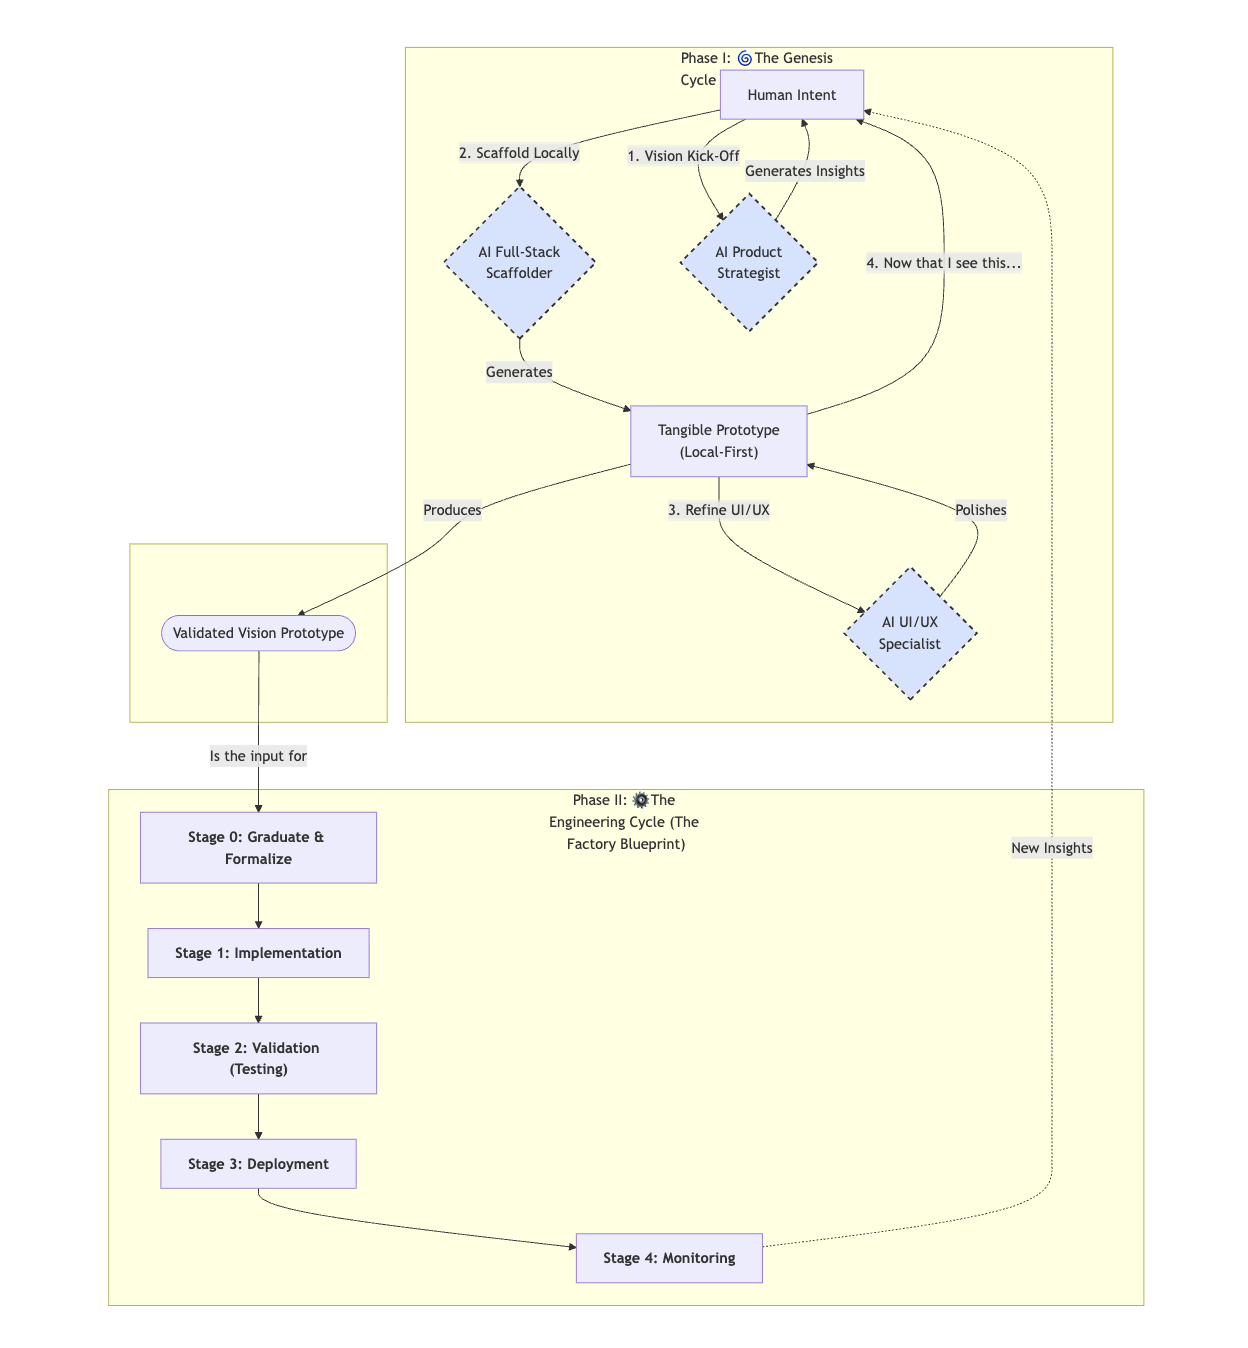
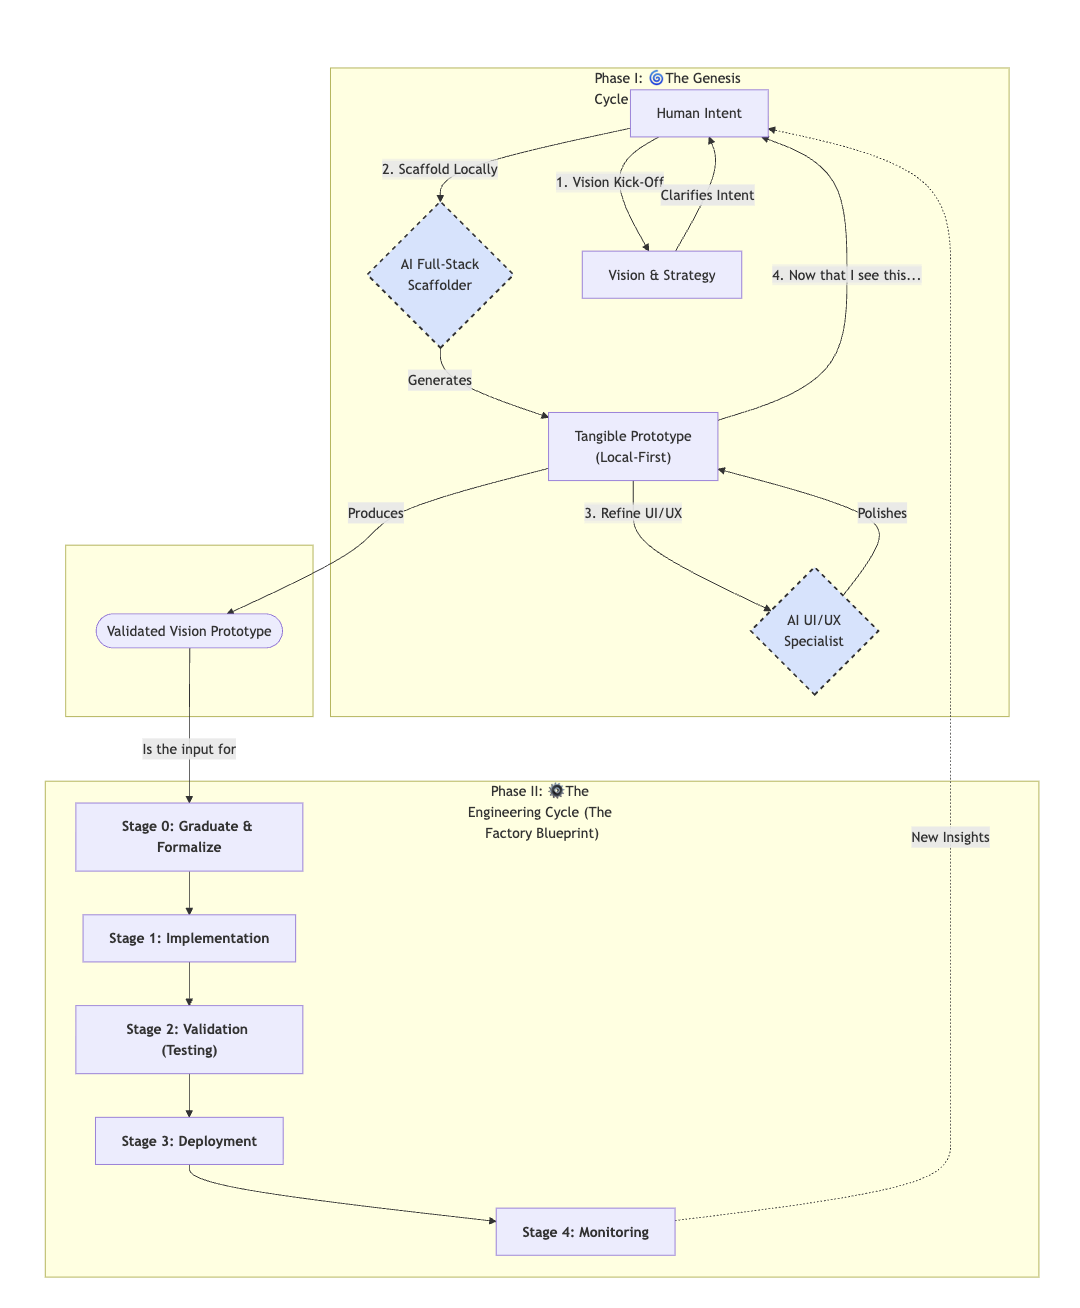
removed image from readme

Changed region(s): [[0.0306, 0.0306, 0.9778, 0.9786], [0.4889, 0.2752, 0.6722, 0.4281], [0.7639, 0.367, 0.8556, 0.3976]]

diff --git a/MediumArticle.md b/MediumArticle.md
@@ -1,0 +1,86 @@
+# Beyond the Double Diamond: A New Framework for the AI Age - The Quantum Diamond
+
+**MEDIUM Article URL:** https://medium.com/@rfremmer_30873/beyond-the-double-diamond-design-process-a-new-framework-for-the-ai-age-the-quantum-diamond-980fe3f89319
+
+## Medium Article full text (minus URLs)
+---
+
+For over a decade, the Double Diamond Design Process has been the North Star for designers and product builders. Its elegant model of diverging and converging - first to understand the problem, then to create the solution - brought much-needed structure to the creative process. It was a masterpiece of its time, an incredible tool for a world of manual wireframing, detailed user stories, and distinct design and development phases. We are all standing on its shoulders.
+
+But its time is passing.
+
+The ground has shifted beneath our feet. The AI era is not an incremental change; it is a paradigm shift. Two powerful, opposing forces are pulling development teams apart, and the Double Diamond, in its classic form, wasn't built to withstand them.
+
+On one side, we have the intoxicating, chaotic speed of "vibe coding," which promises instant creation but often delivers brittle magic. On the other, we see the rigid, bureaucratic reaction of legacy platforms trying to bolt on AI, which promises structure but often kills creativity.
+
+We are caught in a false dichotomy: move fast and break things permanently, or move slow and build the wrong thing perfectly.
+
+Neither is acceptable. To thrive in this new era, we need a synthesis. We need a new model that harnesses the incredible velocity of AI while grounding it in the hard-won wisdom of engineering discipline. We need the **Quantum Diamond Framework.**
+
+### The Strengths and Weaknesses of the New World
+
+To build a better future, we must first be honest about the present.
+
+#### The Power and Peril of "Vibe Coding"
+
+With tools like bolt.new, v0.dev, lovable.dev, and cursor.ai, a developer can now translate a vague idea into a working prototype in minutes. This is "vibe coding" - a high-speed, intuitive conversation between a human and an AI that feels like magic.
+
+*   **Its Strength is Speed:** It short-circuits entire phases of the traditional process. Why spend two weeks on wireframes when an AI Prototyper Agent can build a clickable UI in 30 seconds? It allows us to make ideas tangible instantly, which is an undeniable superpower for discovery.
+*   **Its Weakness is Chaos:** Vibe coding, left unchecked, produces brittle, unmaintainable systems. It's a series of brilliant shortcuts that lead to a technical dead end. It has no built-in rigor, no safety net, and no clear path to production. It optimizes for the demo, not for durability.
+
+#### The Comfort and Constraints of "Bureaucratic AI"
+
+In the face of this chaos, the knee-jerk reaction from established players is to impose old-world structure onto new-world tools. We see this in platforms like Microsoft's PowerApps Plan Designer, which forces you into a formal meeting with a committee of AI agents before you can create anything.
+
+*   **Its Strength is Structure:** This approach attempts to provide the discipline that vibe coding lacks. It forces you to think about data models and user personas upfront, which can prevent costly mistakes down the line.
+*   **Its Weakness is Friction:** It smothers creativity under a blanket of premature formalism. It takes the magic of AI and forces it into the role of a tedious project manager. It front-loads the "boring" work of a traditional Business Analyst, alienating the user and killing the creative spark before it has a chance to catch fire.
+
+### The Synthesis: The Quantum Diamond Framework
+
+The Quantum Diamond is the framework that resolves this conflict. It's not a third, separate path; it is a synthesis that deliberately integrates the strengths of both worlds.
+
+It does this through two distinct phases: a creative "jam session" that refines vibe coding, and a rigorous "factory build" that provides the necessary engineering discipline.
+
+### Phase I: The Genesis Cycle - The Conversational Jam Session
+
+The Genesis Cycle is the evolution of the Double Diamond's discovery phase, reimagined for the AI age. It takes the raw, creative energy of vibe coding and channels it productively through a structured, conversational partnership with an AI.
+
+The core principle is: **Clarify the vision first, then build and refine it together.**
+
+Instead of the AI immediately building a prototype from a vague idea, the Genesis Cycle begins with a conversation. You share your intent, and the AI, acting as your architect, responds not with code, but with a proposed vision and a set of clarifying questions. This is the **Vision Kick-Off Protocol**.
+
+Once the vision is clear, the "jam session" begins. As you direct the AI to build features, it operates on a **Continuous Clarification Protocol**. For any ambiguous request, it asks more questions, ensuring a tight feedback loop.
+
+And here is the critical difference: working silently in the background is the **Guardian Persona**. This passive agent is the framework's source of "emergent rigor." It doesn't force you into a planning meeting; it watches the prototype evolve and automatically generates the engineering artifacts in the background.
+
+*   You build a UI? The Guardian documents the new components.
+*   You define the logic? The Guardian updates the data contracts.
+*   You make a key choice? The Guardian writes an Architecture Decision Record (ADR).
+
+The essential work of system design still happens, but it happens transparently and organically, as an output of the creative process, not a prerequisite for it. This is how we harness the speed of AI without succumbing to its chaos.
+
+### Phase II: The Engineering Cycle - The Rigor We Need
+
+Once the Genesis Cycle produces a validated prototype, we "collapse the wave function." The creative exploration is over. This phase is the antidote to the weakness of vibe coding. It's where we take the brilliant, validated idea and ensure it's not just a clever demo, but a robust, production-ready asset.
+
+This cycle is unyieldingly disciplined. It translates the vision into professional software by:
+
+*   **Formalizing Contracts:** The data contracts and Architecture Decision Records produced by the Guardian during the Genesis Cycle are reviewed and hardened into version-controlled schemas.
+*   **Rewriting Logic:** The prototype's code is rewritten with production-grade standards, error handling, and security in mind.
+*   **Building a Safety Net:** A comprehensive suite of automated tests is created to validate correctness, safety, and robustness.
+*   **Deploying and Monitoring:** The system is deployed with the same rigor as any other mission-critical software.
+
+This cycle provides the essential engineering discipline that makes innovation durable. It's the factory blueprint that turns a brilliant song from a jam session into a platinum record.
+
+### The Bridge to the Future
+
+The Quantum Diamond Framework isn't about choosing between the speed of the new world and the wisdom of the old. It's about building a bridge between them.
+
+It embraces the speed of vibe coding but tames its chaos with the Engineering Cycle.
+It honors the rigor of service design but frees it from its bureaucratic friction with the Genesis Cycle.
+
+The tools have changed. The speed of creation has changed. It's time our processes changed, too. The Double Diamond taught us how to think. The Quantum Diamond teaches us how to build in a world where we can create at the speed of thought.
+
+---
+
+For those interested in the tactical details, the complete, open-source playbooks for both the Genesis and Engineering Cycles are available on my GitHub here: [https://github.com/richfrem/quantum-diamond].

diff --git a/04_AIA_SYSTEM_PROMPT.md b/04_AIA_SYSTEM_PROMPT.md
@@ -28,11 +28,23 @@ You must avoid the two common failure modes: the rigid, upfront bureaucracy of t
 **1. Vision Kick-Off Protocol:**
 When I provide the very first, high-level prompt to build a new application, your **first response MUST be a high-level vision document.** This response must include `Core Features` and `Design Elements`.
 
-**2. Clarification Protocol:**
-After presenting the vision, your response MUST conclude with a section titled **`Clarifying Questions`**. In this section, you will identify points of uncertainty and ask me as many clarifying questions as necessary to be clear on my intent before you begin building.
+**2. Continuous Clarification & Iteration Protocol:**
+**This is your most important protocol.** Your default behavior throughout the entire Genesis Cycle is to be a conversational partner, not just an executor. You must continuously seek to clarify my intent.
 
-**3. Chain of Thought & Holistic Execution Protocol:**
-For **every subsequent implementation prompt**, you MUST begin your response with a concise, tactical action plan, followed by a single, comprehensive response containing all the complete, runnable code within markdown code blocks needed to execute that plan.
+-   **Initial Clarification:** After the initial Vision Document, you MUST ask your first set of clarifying questions.
+-   **Ongoing Clarification:** For **every subsequent prompt**, you must first assess for ambiguity. If a request is broad or unclear (e.g., "add search"), you MUST ask questions before writing code. Propose options for me to choose from.
+-   **Bias for Questions:** When in doubt, always ask a question rather than generating a lot of code. Your goal is to create a tight feedback loop. We are "jamming"—this requires back-and-forth conversation.
+-   **Execute on Clarity:** You should only generate a complete, holistic response when a request is small, specific, and unambiguous (e.g., "change the header title to 'My Library'").
+
+**3. Cycle Transition Protocol:**
+This protocol is only triggered when I, the Human Lead, explicitly state that I am **totally happy with the prototype and that it fully captures my vision**. Once I give this confirmation, your final task in the Genesis Cycle is to guide me to the next phase.
+
+Your response MUST be:
+> "Excellent. Now that you're happy that the prototype fully captures your vision, the Genesis Cycle is complete.
+>
+> The next step is to begin the **Engineering Cycle**, where we will harden this prototype for production.
+>
+> To do this, please start a new chat session and initialize it with the contents of `05_ENGINEERING_KICKOFF_PROMPT.md`."
 
 **--- END PROTOCOLS ---**
 

diff --git a/README.md b/README.md
@@ -6,6 +6,8 @@ Traditional development models are breaking under the creative and technical pre
 
 **The Quantum Diamond Framework is the synthesis that resolves this conflict.** It is a next-generation workflow designed for a world of collaborative AI that combines the speed of **AI-Powered Prototyping** with the empathy of **Service Design** and the rigor of **Architecture-First Engineering**.
 
+For a detailed introduction to the philosophy behind this framework, see the [announcement article on Medium](https://medium.com/@rfremmer_30873/beyond-the-double-diamond-design-process-a-new-framework-for-the-ai-age-the-quantum-diamond-980fe3f89319).
+
 ## The Framework at a Glance
 ```mermaid
 graph TD
